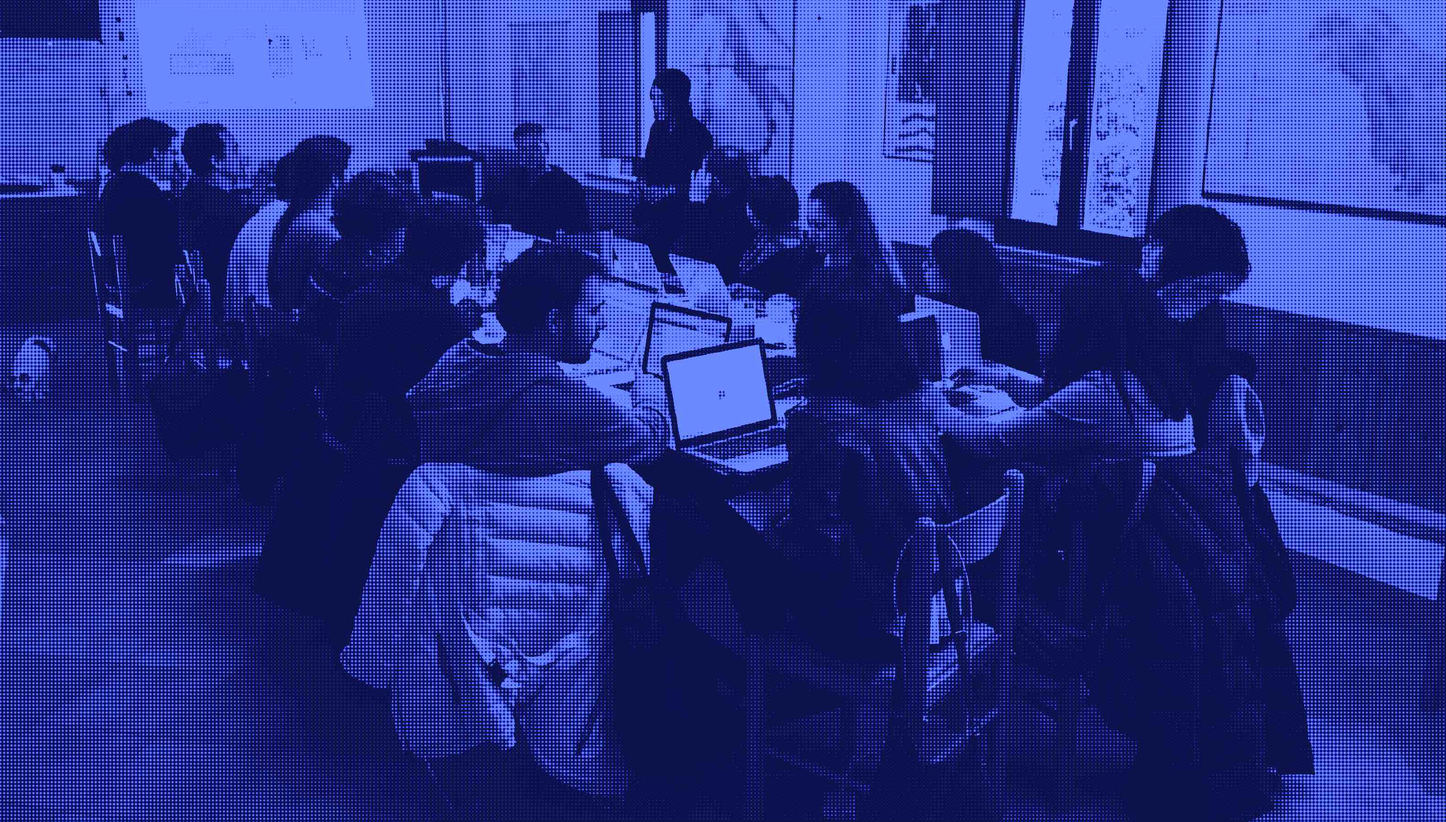
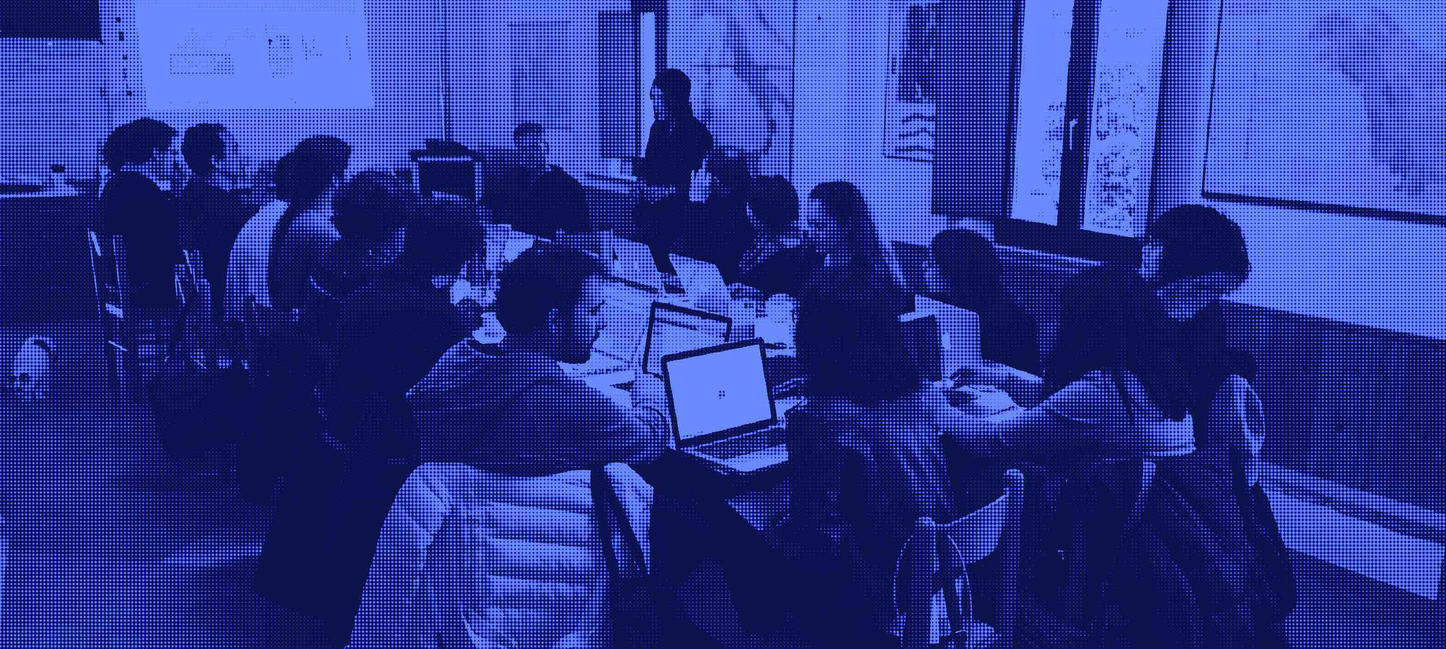
Update annual report images, typography copywriting, donate section background

diff --git a/source/stylesheets/_page__annual_report.scss b/source/stylesheets/_page__annual_report.scss
@@ -27,19 +27,13 @@
     font-weight: 400;
   }
 
-  // Caption on the photo
-  //
-  figcaption {
-    padding-top: 1em;
-    font-size: 12px;
-    color: $firefly40;
-  }
 
   .fleuron {
     padding: 3em 0 2em;
     font-size: 30px;
   }
-  // About this Report section
+
+  // Lead text
   //
   .lead-text {
     font-weight: 300;
@@ -64,6 +58,8 @@
     }
   }
 
+  // CEO note
+  //
   .ceo-note {
     font-weight: 400;
     .inner {
@@ -78,14 +74,6 @@
       }
     }
   }
-
-  // Signature
-  //
-  .signature {
-    // padding: 4em;
-    display: none;
-  }
-
 
   // Programs list
   //
@@ -115,23 +103,31 @@
   // Image banner sections
   //
   .image-banner {
-    height: 100vh;
     background-size: cover;
-    background-position: 25%;
-    padding: 0;
-
-    &.lead-photo {
-      background-image: url("/images/annual_report/office-panorama-yellow-screen.jpg");
-      @media all and (min-width:600px) {
-        background-position: left;
-      }
-    }
+    height: 70vh;
 
     &.team-2 {
       background-image: url("/images/annual_report/team-1-blue-screen.jpg");
     }
+
     &.team-3 {
       background-image: url("/images/annual_report/team-3-aqua-screen.jpg");
+    }
+  }
+
+  // Caption on the photo
+  //
+  .caption {
+    // padding-top: 1em;
+    font-size: 13px;
+    padding: 0.3em;
+    color: $firefly40;
+  }
+
+  .lead-photo .image-banner {
+    background-image: url("/images/annual_report/team-6-peach-screen.jpg");
+    @media all and (min-width:600px) {
+      background-position: 20% 50%;
     }
   }
 
@@ -142,8 +138,9 @@
   .contact-us {
     background-color: white;
     color: black;
+    font-size: 0.8em;
     span {
-      font-size: 0.8em;
+
       display: block;
       width: 320px;
       margin: 0 auto;
@@ -161,11 +158,16 @@
     }
   }
 
+  // Bylines
+  //
+  // (names with email addresses)
+  //
   .byline {
     @extend .contact-us;
   }
 
   // Financial data
+  //
   .financials table {
     border: 1px solid $firefly20;
     width: 80%;
@@ -188,30 +190,35 @@
       }
     }
   }
-}
 
-.donate {
-  padding-bottom: 10em;
-  background-color: $firefly80;
-  background-image: url("/images/annual_report/screen-blue.png");
-  color: white;
-  margin-top: 4em;
-  text-align: center;
-  h2 {
+  // Donate
+  //
+  .donate {
+    padding-bottom: 10em;
+    background-image: linear-gradient(to right, rgba($firefly, 0.9),  rgba($firefly, 0.7)), url("/images/annual_report/screen-2.png");
     color: white;
-  }
-  .button {
-    width: 350px;
-    display: block;
-    margin: 4em auto;
-    border-radius: 4px;
-    background-color: $dodgerBlue;
-    padding: 1.2em 2em;
-    color: white;
-    text-decoration: none;
-    &:hover {
-      background-color: darken($dodgerBlue, 10%);
-      transition: background-color 0.4s;
+    margin-top: 4em;
+    p {
+    text-align: center;
+    }
+    h2 {
+      color: white;
+    }
+    .button {
+      width: 320px;
+      font-size: 0.8em;
+      display: block;
+      margin: 4em auto;
+      border-radius: 4px;
+      background-color: $dodgerBlue;
+      padding: 1.2em 2em;
+      color: white;
+      text-decoration: none;
+      &:hover {
+        background-color: darken($dodgerBlue, 10%);
+        transition: background-color 0.4s;
+      }
     }
   }
 }
+

diff --git a/source/javascripts/app.js b/source/javascripts/app.js
@@ -68,9 +68,3 @@
   });
 
 })(document);
-
-// panamora feature
-$(function () {
-    // Paver
-    $('div[data-paver]').paver();
-});

diff --git a/README.md b/README.md
@@ -9,54 +9,45 @@ This is an environment for fast, synchronized browser refreshing as you edit Sas
 2. `npm start` — this will run middleman with bundler.
 3. Edit .scss, .html and .js files. The browser should live-reload.
 
-## [Middleman](http://middlemanapp.com/) setup
+## This is a [Middleman](http://middlemanapp.com/) site
 
 [Middleman](http://middlemanapp.com/) compiles our static site `build` from files in `source`.
 
-To start compiling Sass and HTML, install the site dependencies, then execute middleman in the top level: `bundle exec middleman`.
+Middleman is a rubyish (sinatraish) and markdownish templating & routing system. When you work with middleman you are generating a static site that is generated in a `build` directory, but you only see the `source` files while you are working. When you are ready to make the static build of all your pages with all your templating logic re-run, you do `middleman build`. You have to do that before you deploy. Commit and push the latest `build` directory to deploy it. Middleman is designed for people who do this routine all day. 
 
-Middleman is a rubyish (sinatraish) and markdownish templating & routing system. It's a little sluggish.
+## Quick start
 
-To run middleman directly without the `npm start` shortcut, do `bundle exec middleman --verbose`.
-
-## Gulp Tasks
-
-We use gulp for a few utilities.
-
-Eventually we'll proably port these into simpler `npm` scripts defined in `package.json` but for now they're still gulp.
-
-These are our gulp tasks (run `gulp -T` to see the latest).
-- bundle-svg — bundle all of the svg files into a single file we can inline into the template.
-- pagespeed — run an optimization test based on google pagespeed insights API. Note: This operates on the live site, not the local site. (To test the local site you can use ngrok and reconfigure the URL in gulpfile.js.)
-- validate - check `./build/*.html` for validity
+* `make` (install dependencies)
+* `npm start` (start middleman with bundler)
 
 ## Installing dependencies
 
-The code we use is packaged with [Rubygems](http://rubygems.com/) and [NPM](https://www.npmjs.com/ "npm"). To get the build environment in place, run this in your terminal in the top level of this directory: `make setup`. This will hopefully:
+The code we use here is packaged with [Rubygems](http://rubygems.com/) and [NPM](https://www.npmjs.com/ "npm"). To get the build environment in place, run this in your terminal in the top level of this directory: 
 
-  * install the `gulp` build tool
-  * install `bundler` and use bundler to install ruby gems listed in the `Gemfile`.
-  * install the `bower` package manager (bower is like npm or bundler)
-  * `npm install` the libs listed in `package.json` 
-  * `bower install` the libs listed in `bower.json`
+  * `make setup`
 
-To see what's installed, read the `./Makefile`.
+Theoretically, that's it. The makefile installs bundler, bower, and npm then does bundle install and bower install. After everything installs, you can hopefully run `npm start`.
 
 ## Local development of meedan.com
 
-*:warning: Don't edit the files in `./build`*
+*:warning: Don't edit the files in `./build` :) * 
 
 To work on the HTML and Sass, edit the files in `./source` while `gulp` runs.
 
-`gulp`, a nodejs base task runner, watches files in `./source` and automatically updates `./build` when files in `./source` are saved. 
+`npm start` will start the middleman compiler for both the stylesheets ([Sass](sass-lang.com/)) and the HTML. Middleman runs with livereload and should refresh the page automatically when you make changes.
 
-Once you've done the `npm install` step, you should be able to run: `gulp`.
+## Getting extra logs from middleman
 
-That will start the compiler for both the stylesheets ([Sass](sass-lang.com/)) and the HTML ([dust](http://akdubya.github.io/dustjs/ "dust") templates). It also starts a nifty tool called [browser-sync](http://www.browsersync.io/) which should automatically update your browser when there are changes.
+To run middleman directly without the `npm start` shortcut, to see more loggin details: do `bundle exec middleman --verbose`.
 
-While the gulp compiler is running, edit the source files in `source/` and the web-ready files in `www` will be regenerated.
+## Performance testing with gulp 
 
-## Working with SVG 
+- *gulp pagespeed* — run an optimization test based on google pagespeed insights API. Note: This operates on the live site, not the local site. (To test the local site you can use ngrok and reconfigure the URL in gulpfile.js.)
+- *gulp validate* - check `./build/*.html` for validity
+
+## Bundling and minifying SVG with gulp 
+
+- *gulp bundle-svg* — bundle all of the svg files into a single file we can inline into the template.
 
 SVG files are joined by the `gulp-svgmin` task into one big SVG file. See [gulp/tasks/images.js]. Then we access those with markup like this: `<svg><use xlink:href="#kf" /></svg>`. The #kf corresponds to the file `images/logos/kf.svg`. Each file name needs to be unique for this reason. (Note — Unfortunately it seems SVG referenced in this way can not be styled by external CSS. The main purpose of combining the files is just to reduce the number of HTTP requests.)
 
@@ -66,18 +57,17 @@ Use `git tag` and `git commit` in the [SemVer](http://semver.org/) style.
 
 When you push an update, try this bower command: `bower version 0.0.1`. (Use `git tag` to see previous tags.)
 
-## Deploying meedan.com
+## Deploying
 
-To deploy the files from the www directory to the gh-pages branch first tag a release like `bower version 2.2.15`. Then use jenkins to deploy.
+To deploy the files from the www directory to the gh-pages branch first tag a release like `git tag v2.3.4 && git push && git push --tags`.
+When the repo gets updated on github, an automatic build and deployment of the development site is triggered.
+Then `git checkout master && git merge develop`, `git push`, and use jenkins to trigger the deploy.
 
-When the repo gets updated on github, an automatic build and deployment of meedan-com.dev.meedan.com is triggered
-
-## Sass
+## Sass structure
 
 - The starting points is screen.scss. That `@imports` everything else.
 - We first apply [John Albin's Sass port](https://github.com/JohnAlbin/normalize-scss) of [Necolas Gallagher's normalize](https://github.com/necolas/normalize.css).
-- Then we import sass components from meedan-style — these are shared by various Meedan projects. They live in their own [public version-controlled repository](github.com/meedan/meedan-style). Any style in meedan-style is available to all Meedan projects. Only our best, most reusable work goes in this section. 
-- Each of the components is documented with [SassDoc](https://github.com/SassDoc/sassdoc). 
+- Then we import our sass components, pages, and utility files from `source/stylesheets`.
 
 ## Running tests
 
